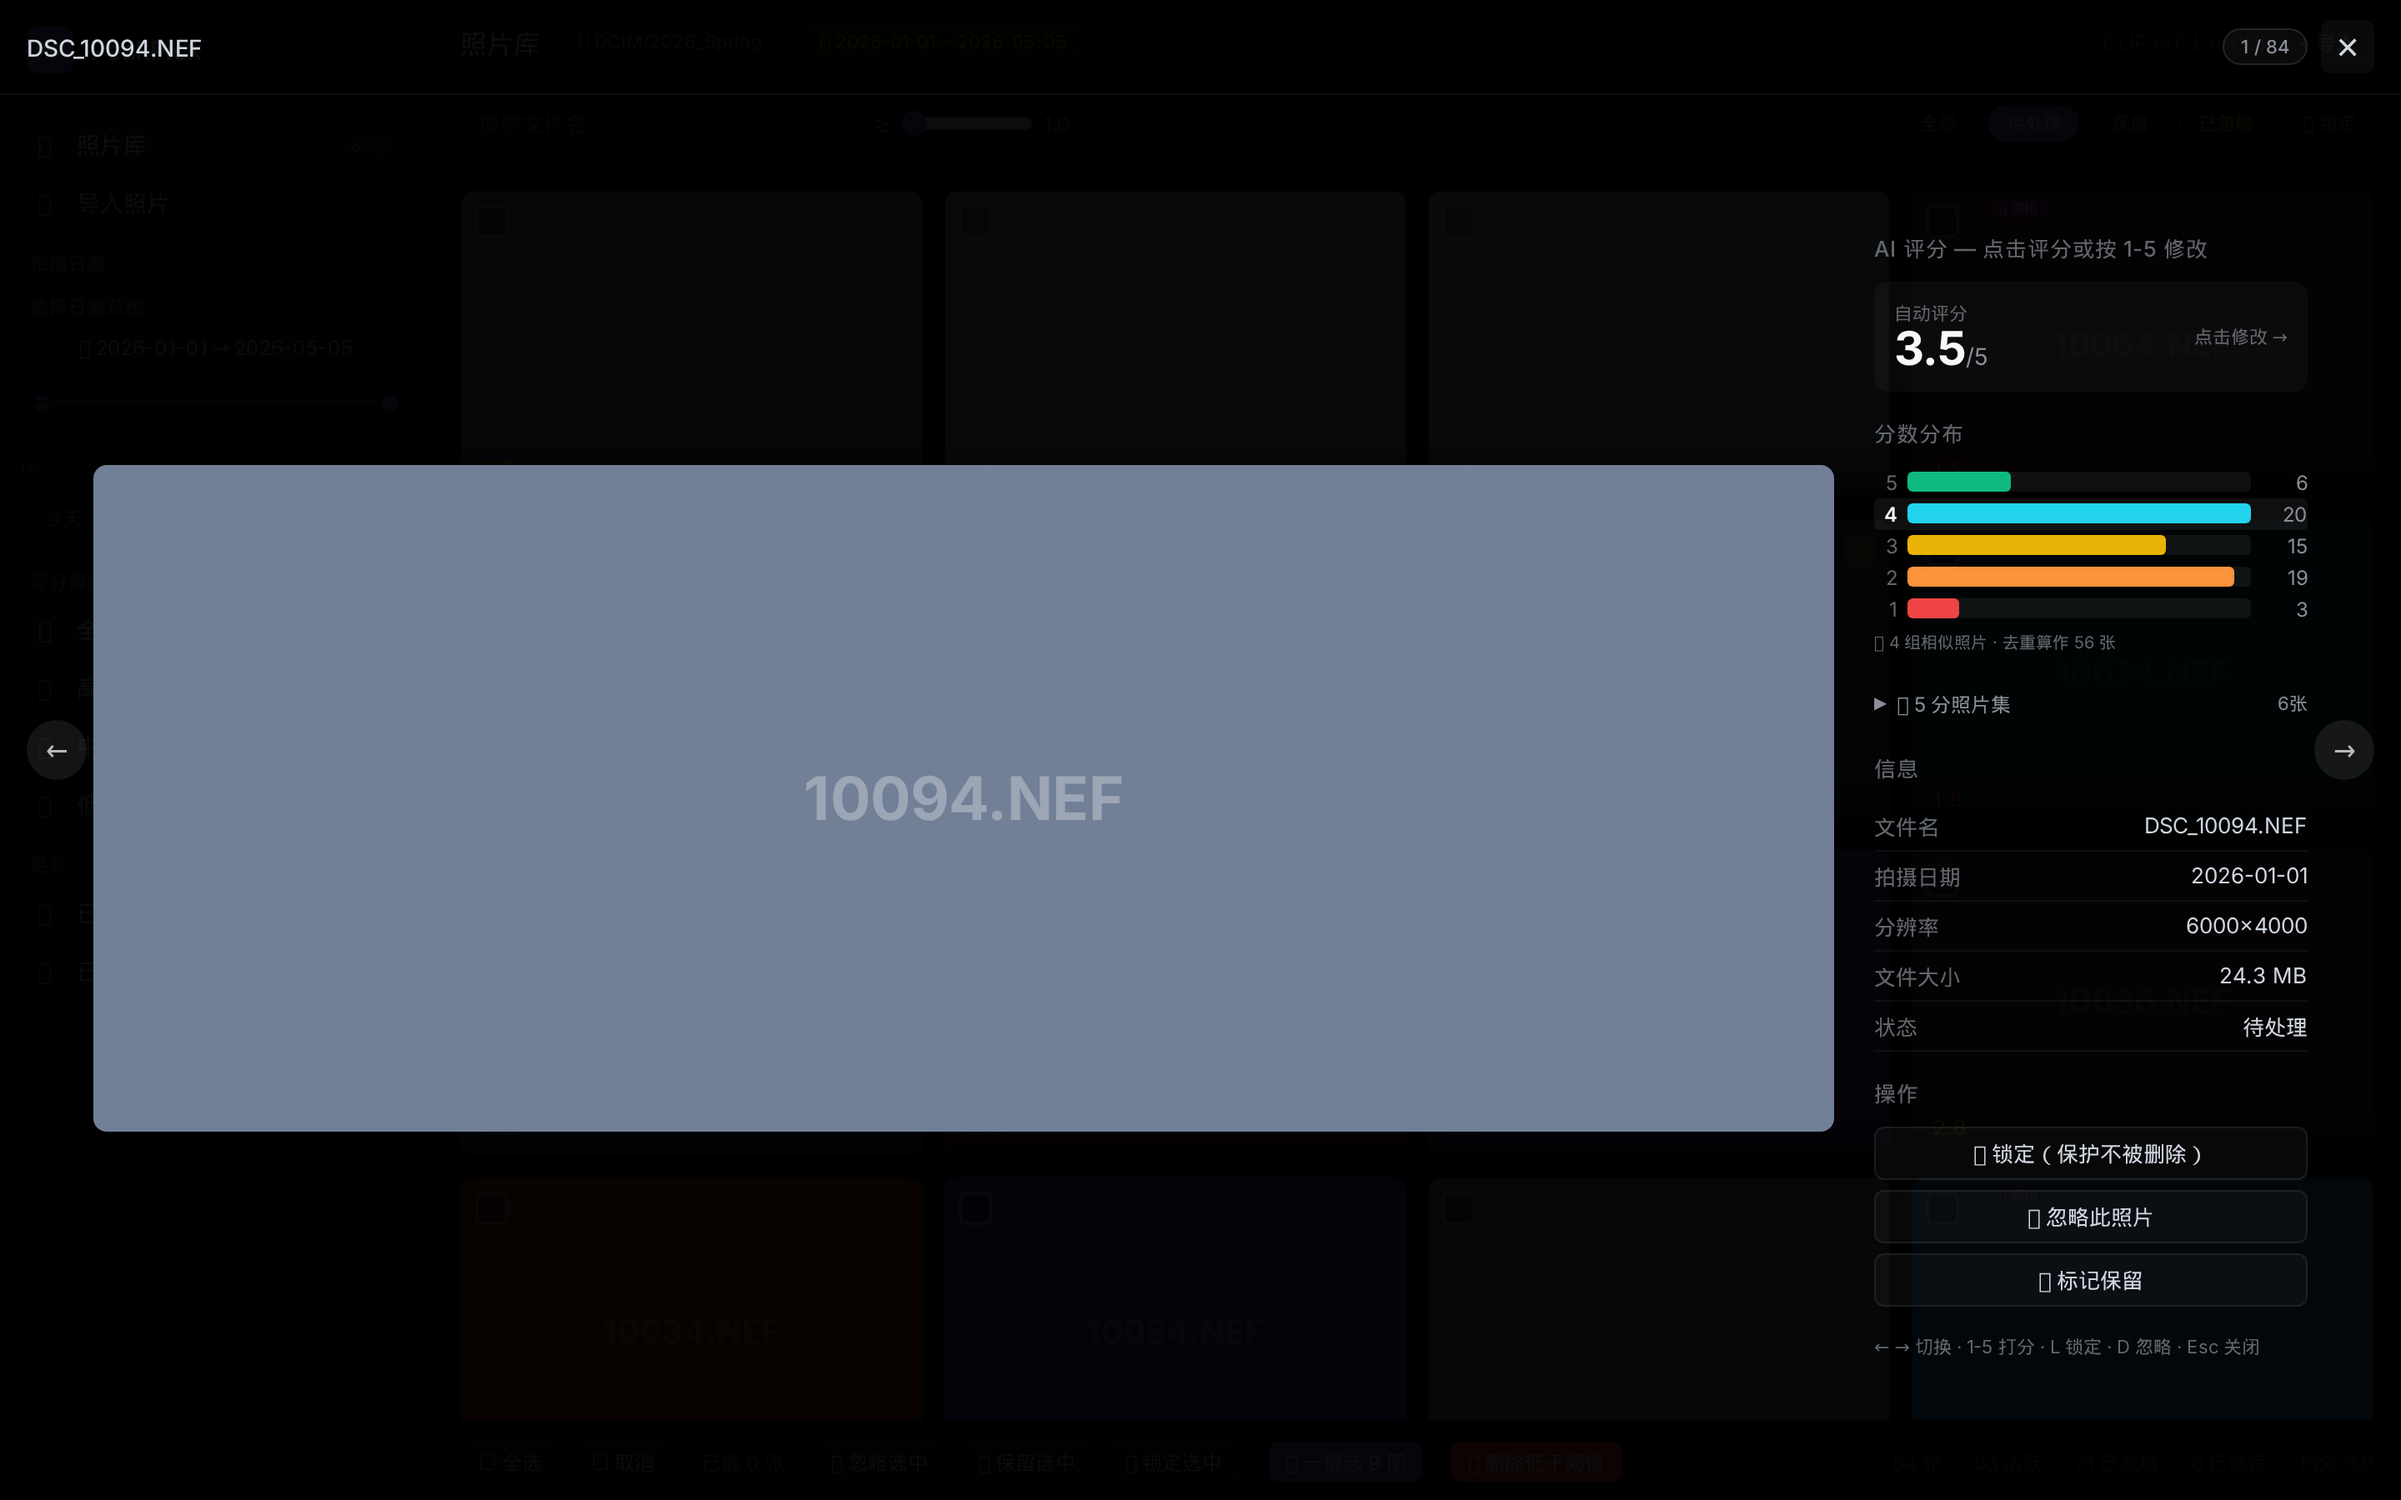
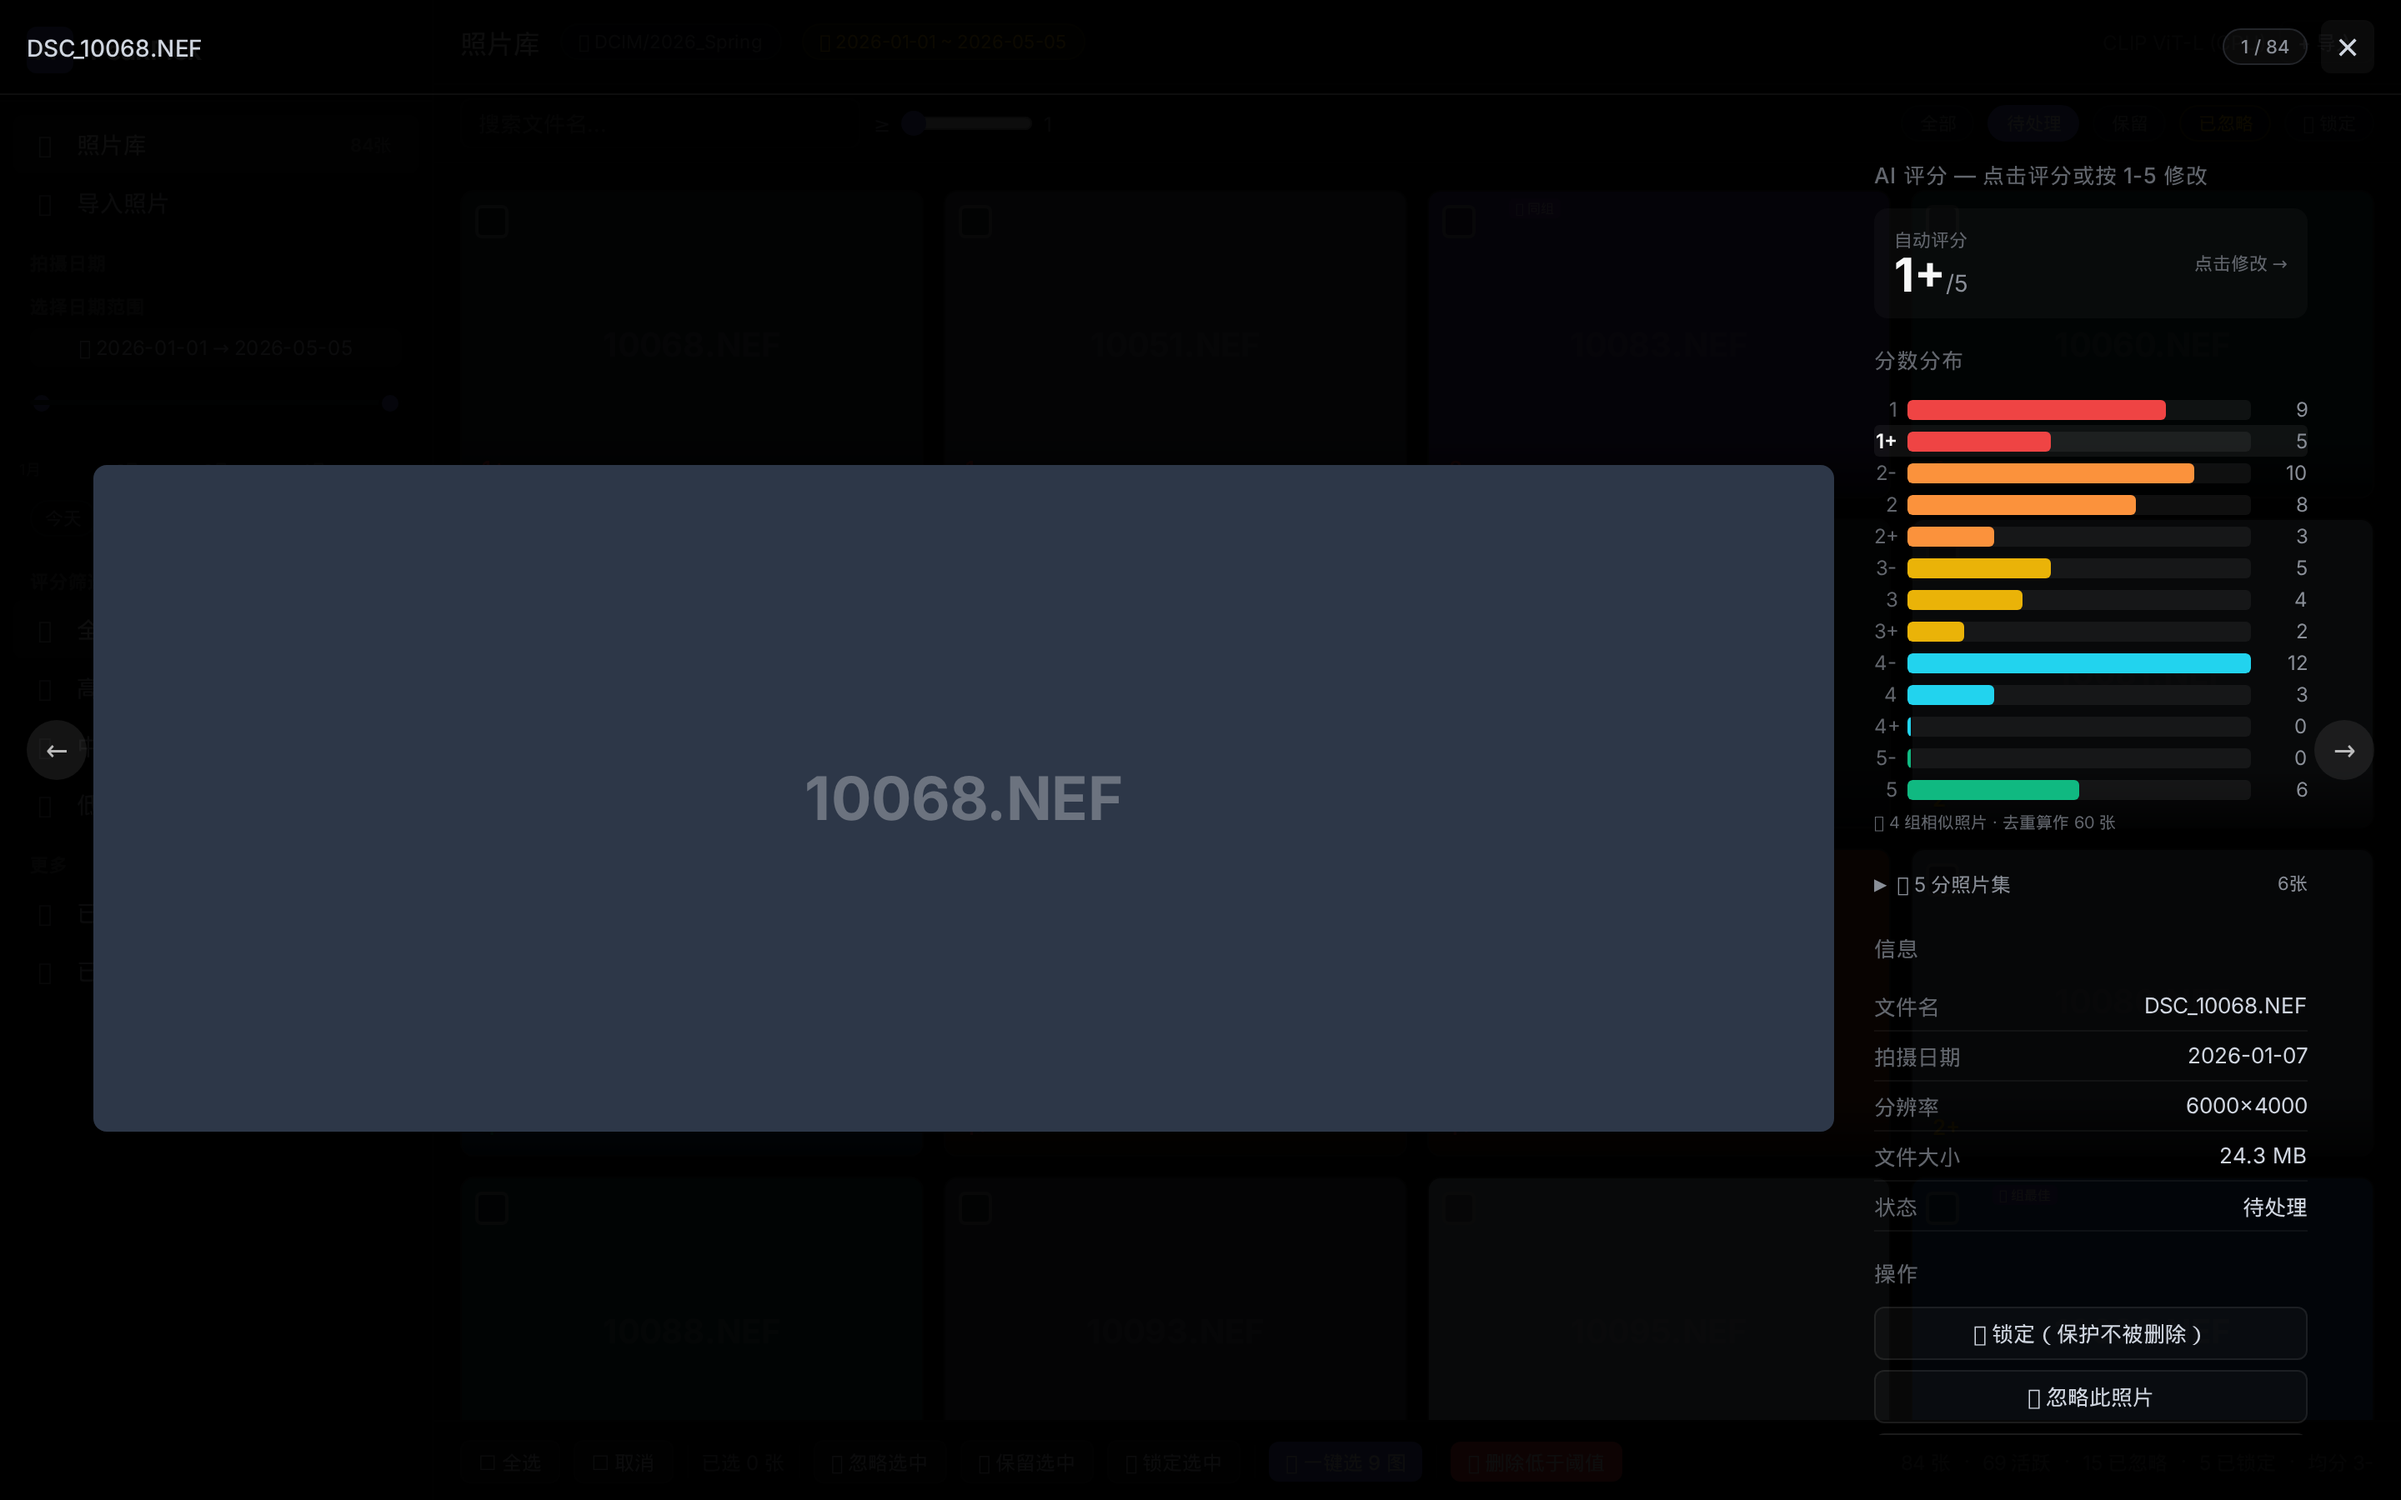
🔄 评分体系改为 3-/3/3+ 人类友好格式
评分从一位小数点（3.4）改为 13 级标注（1, 1+, 2-, 2, 2+, 3-, 3, 3+, 4-, 4, 4+, 5-, 5）
- AI 评分和人反馈使用同一套标注
- 点击评分或按 1-5 键在 -/中性/+ 之间循环
- 分数分布直方图展示完整 13 级
- 底部状态栏均分也使用新格式
- 星标显示 + 修饰符指示（− / +）

diff --git a/sketches/001-ux-first/variant-a-tool/index.html b/sketches/001-ux-first/variant-a-tool/index.html
@@ -258,13 +258,13 @@ html, body { height: 100%; font-family: 'Inter', system-ui, -apple-system, sans-
         <span class="icon">📊</span> 全部 <span class="badge">84张</span>
       </div>
       <div class="nav-item" onclick="filterScore('high')">
-        <span class="icon">⭐</span> 高分 (≥4.0) <span class="badge" id="high-count">--</span>
+        <span class="icon">⭐</span> 高分 (4+以上) <span class="badge" id="high-count">--</span>
       </div>
       <div class="nav-item" onclick="filterScore('medium')">
-        <span class="icon">🔶</span> 中等 (2.5-3.9) <span class="badge" id="med-count">--</span>
+        <span class="icon">🔶</span> 中等 (3- ~ 3+) <span class="badge" id="med-count">--</span>
       </div>
       <div class="nav-item" onclick="filterScore('low')">
-        <span class="icon">🔴</span> 低分 (&lt;2.5) <span class="badge" id="low-count">--</span>
+        <span class="icon">🔴</span> 低分 (2+以下) <span class="badge" id="low-count">--</span>
       </div>
       <div class="nav-section">更多</div>
       <div class="nav-item" onclick="showDismissed()">
@@ -293,8 +293,8 @@ html, body { height: 100%; font-family: 'Inter', system-ui, -apple-system, sans-
       <input class="search-input" type="text" placeholder="搜索文件名..." oninput="filterPhotos()">
       <div class="score-filter">
         <span>≥</span>
-        <input type="range" min="1" max="5" step="0.5" value="1" oninput="updateThreshold(this.value)">
-        <span id="threshold-label">1.0</span>
+        <input type="range" min="1" max="5" step="0.1" value="1" oninput="updateThreshold(this.value)">
+        <span id="threshold-label">1</span>
       </div>
       <div style="flex:1;"></div>
       <span class="filter-chip" onclick="toggleFilter(this,'all')">全部</span>
@@ -449,11 +449,12 @@ html, body { height: 100%; font-family: 'Inter', system-ui, -apple-system, sans-
 <script>
 // ── Score Distribution ──
 function renderScoreDist() {
-  const counts = {1:0,2:0,3:0,4:0,5:0};
+  const counts = {};
+  SCORE_LABELS.forEach(l => counts[l] = 0);
   const activePhotos = photos.filter(p => p.status !== 'dismissed');
   activePhotos.forEach(p => {
-    const bin = Math.round(p.score);
-    if (counts[bin] !== undefined) counts[bin]++;
+    const label = formatScore(p.score);
+    if (counts[label] !== undefined) counts[label]++;
   });
   const maxCount = Math.max(...Object.values(counts), 1);
   const allPhotos = activePhotos.length;
@@ -465,25 +466,26 @@ function renderScoreDist() {
   document.getElementById('score-dist-group-info').textContent =
     `📎 ${groupIds.size} 组相似照片 · 去重算作 ${dedupedCount} 张`;
 
-  document.getElementById('score-dist-bars').innerHTML = [5,4,3,2,1].map(score => {
-    const pct = (counts[score] / maxCount) * 100;
-    const active = Math.round(photos[detailIndex].score) === score;
-    return `<div class="score-dist-bar ${active ? 'active' : ''}" onclick="filterToScore(${score})">
-      <span class="s-label">${score}</span>
-      <div class="s-bar-wrap"><div class="s-bar s-bar-${score}" style="width:${pct}%"></div></div>
-      <span class="s-count">${counts[score]}</span>
+  document.getElementById('score-dist-bars').innerHTML = SCORE_LABELS.map(label => {
+    const pct = (counts[label] / maxCount) * 100;
+    const currentLabel = formatScore(photos[detailIndex].score);
+    const active = currentLabel === label;
+    const baseScore = parseInt(label);
+    const colorClass = `s-bar-${baseScore}`;
+    return `<div class="score-dist-bar ${active ? 'active' : ''}" onclick="filterToScoreLabel('${label}')">
+      <span class="s-label">${label}</span>
+      <div class="s-bar-wrap"><div class="s-bar ${colorClass}" style="width:${pct}%"></div></div>
+      <span class="s-count">${counts[label]}</span>
     </div>`;
   }).join('');
 }
 
-function filterToScore(score) {
-  // Switch to 'all' filter and highlight only this score in the grid
+function filterToScoreLabel(label) {
   document.querySelectorAll('.filter-chip').forEach(c => c.classList.remove('active'));
   document.querySelector('.filter-chip').classList.add('active');
   currentFilter = 'all'; showingDismissed = false; showingLocked = false;
-  scoreThreshold = score;
-  document.getElementById('threshold-label').textContent = score;
-  document.querySelector('.score-filter input').value = score;
+  scoreThreshold = parseLabel(label);
+  document.getElementById('threshold-label').textContent = label;
   renderGrid();
 }
 
@@ -496,7 +498,7 @@ function toggleTop5() {
 }
 
 function renderTop5() {
-  const fivers = photos.filter(p => p.score >= 5.0 && p.status !== 'dismissed');
+  const fivers = photos.filter(p => p.score >= 4.7 && p.status !== 'dismissed');
   document.getElementById('top5-section').style.display = fivers.length > 0 ? 'block' : 'none';
   document.getElementById('top5-count').textContent = `${fivers.length}张`;
   document.getElementById('top5-grid').innerHTML = fivers.map(p =>
@@ -593,6 +595,34 @@ const dateMin = new Date(2026, 0, 1);
 const dateMax = new Date(2026, 4, 5);
 const dateRangeMs = dateMax - dateMin;
 
+// ── Score Formatting ──
+// Display: 1, 1+, 2-, 2, 2+, 3-, 3, 3+, 4-, 4, 4+, 5-, 5 (13 levels)
+function formatScore(val) {
+  if (val === undefined || val === null) return '--';
+  const floor = Math.floor(val);
+  const frac = val - floor;
+  if (floor < 1) return `1`;
+  if (floor >= 5) return `5`;
+  if (frac < 0.3) return `${floor}-`;
+  if (frac < 0.7) return `${floor}`;
+  return `${floor}+`;
+}
+
+function parseLabel(label) {
+  // Reverse: "3+" → 3.7, "3" → 3.3, "3-" → 3.0
+  if (label === '--') return 0;
+  const match = label.match(/^(\d)([+-])?$/);
+  if (!match) return 3;
+  const num = parseInt(match[1]);
+  const mod = match[2];
+  if (mod === '+') return num + 0.7;
+  if (mod === '-') return num - 0.3;
+  return num + 0.3; // neutral → slightly above integer
+}
+
+// Labels for display
+const SCORE_LABELS = ['1','1+','2-','2','2+','3-','3','3+','4-','4','4+','5-','5'];
+
 let detailIndex = 0;
 let currentFilter = 'pending'; // default: hide dismissed
 let scoreThreshold = 1;
@@ -647,7 +677,7 @@ function renderGrid() {
       ${p.group && p.group.isHighest ? '<div class="grouped-badge" style="background:rgba(147,51,234,0.6);color:#fff;">⭐ 组最佳</div>' : ''}
       ${p.status === 'kept' ? '<div style="position:absolute;top:58px;right:8px;"><span class="badge badge-green">⭐ 保留</span></div>' : ''}
       <div class="photo-overlay">
-        <span class="photo-score ${scoreClass}" onclick="event.stopPropagation();quickRate(${p.id})" title="点击修改评分"><span class="value">${p.score.toFixed(1)}</span></span>
+        <span class="photo-score ${scoreClass}" onclick="event.stopPropagation();quickRate(${p.id})" title="点击修改评分"><span class="value">${formatScore(p.score)}</span></span>
       </div>
     </div>`;
   }).join('');
@@ -666,7 +696,7 @@ function updateStatus(visibleCount = null) {
   document.getElementById('status-active').textContent = `${active} 活跃`;
   document.getElementById('status-dismissed').textContent = `${dismissed} 已忽略`;
   document.getElementById('status-locked').textContent = `${locked} 已锁定`;
-  document.getElementById('status-avg').textContent = `均分 ${avg}`;
+  document.getElementById('status-avg').textContent = `均分 ${formatScore(avg)}`;
   document.getElementById('selected-count').textContent = `已选 ${selected} 张`;
   document.getElementById('dismissed-count').textContent = `${dismissed}张`;
   document.getElementById('locked-count').textContent = `${locked}张`;
@@ -703,9 +733,11 @@ function quickDismiss(id) {
 function quickRate(id) {
   const p = photos.find(x => x.id === id);
   if (!p) return;
-  const stars = Math.round(p.score);
-  const newScore = stars >= 5 ? 1 : stars + 1;
-  p.score = newScore;
+  const labels = SCORE_LABELS;
+  const current = formatScore(p.score);
+  const idx = labels.indexOf(current);
+  const next = labels[(idx + 1) % labels.length];
+  p.score = parseLabel(next);
   renderGrid();
 }
 
@@ -778,7 +810,7 @@ function showLocked() { showingLocked = true; showingDismissed = false; document
 
 function updateThreshold(val) {
   scoreThreshold = parseFloat(val);
-  document.getElementById('threshold-label').textContent = val;
+  document.getElementById('threshold-label').textContent = formatScore(scoreThreshold);
   renderGrid();
 }
 
@@ -866,7 +898,7 @@ function showDetail() {
   document.getElementById('detail-res').textContent = p.res;
   document.getElementById('detail-size').textContent = p.size;
   document.getElementById('detail-status').textContent = p.locked ? '🔒 已锁定' : (p.status === 'pending' ? '待处理' : (p.status === 'kept' ? '⭐ 保留' : '🙈 已忽略'));
-  document.getElementById('detail-ai-score').textContent = p.score.toFixed(1);
+  document.getElementById('detail-ai-score').textContent = formatScore(p.score);
   document.getElementById('detail-lock-badge').classList.toggle('hidden', !p.locked);
   document.getElementById('detail-lock-btn').textContent = p.locked ? '🔓 解锁' : '🔒 锁定（保护不被删除）';
   document.getElementById('detail-image').style.background = p.color;
@@ -887,10 +919,28 @@ function showDetail() {
 }
 
 function updateScoreStars(score) {
-  const stars = Math.round(score);
+  const label = formatScore(score);
+  const baseScore = parseInt(label) || 1;
+  const hasPlus = label.includes('+');
+  const hasMinus = label.includes('-');
   document.querySelectorAll('#score-edit .star').forEach(s => {
-    s.classList.toggle('active', parseInt(s.dataset.s) <= stars);
+    const sVal = parseInt(s.dataset.s);
+    s.classList.toggle('active', sVal < baseScore || (sVal === baseScore && !hasMinus));
   });
+  // Add modifier indicators
+  const starsContainer = document.getElementById('score-edit');
+  let modText = '';
+  if (hasMinus) modText = '−';
+  else if (hasPlus) modText = '+';
+  const existingMod = starsContainer.querySelector('.mod-indicator');
+  if (existingMod) existingMod.remove();
+  if (modText) {
+    const el = document.createElement('span');
+    el.className = 'mod-indicator';
+    el.style.cssText = 'font-size:12px;color:var(--text-tertiary);margin-left:4px;';
+    el.textContent = `（${modText}）`;
+    starsContainer.querySelector('.hint').before(el);
+  }
 }
 
 function toggleScoreEdit() {
@@ -900,10 +950,21 @@ function toggleScoreEdit() {
 
 function setScore(val) {
   const p = photos[detailIndex];
-  p.score = val;
+  const labels = SCORE_LABELS;
+  // val is 1-5 from keyboard or star click, map to appropriate label
+  const candidates = labels.filter(l => l.startsWith(String(val)));
+  const current = formatScore(p.score);
+  const currentCandidates = candidates.filter(l => l.startsWith(String(val)));
+  // If current starts with same digit, cycle: - → neutral → +
+  if (currentCandidates.length > 1) {
+    const idx = currentCandidates.indexOf(current);
+    const next = currentCandidates[(idx + 1) % currentCandidates.length];
+    p.score = parseLabel(next);
+  } else {
+    p.score = parseLabel(candidates[1] || labels[0]); // default to neutral
+  }
   showDetail();
   renderGrid();
-  // Feedback is immediate — no button needed
 }
 
 function navigateDetail(dir) {
